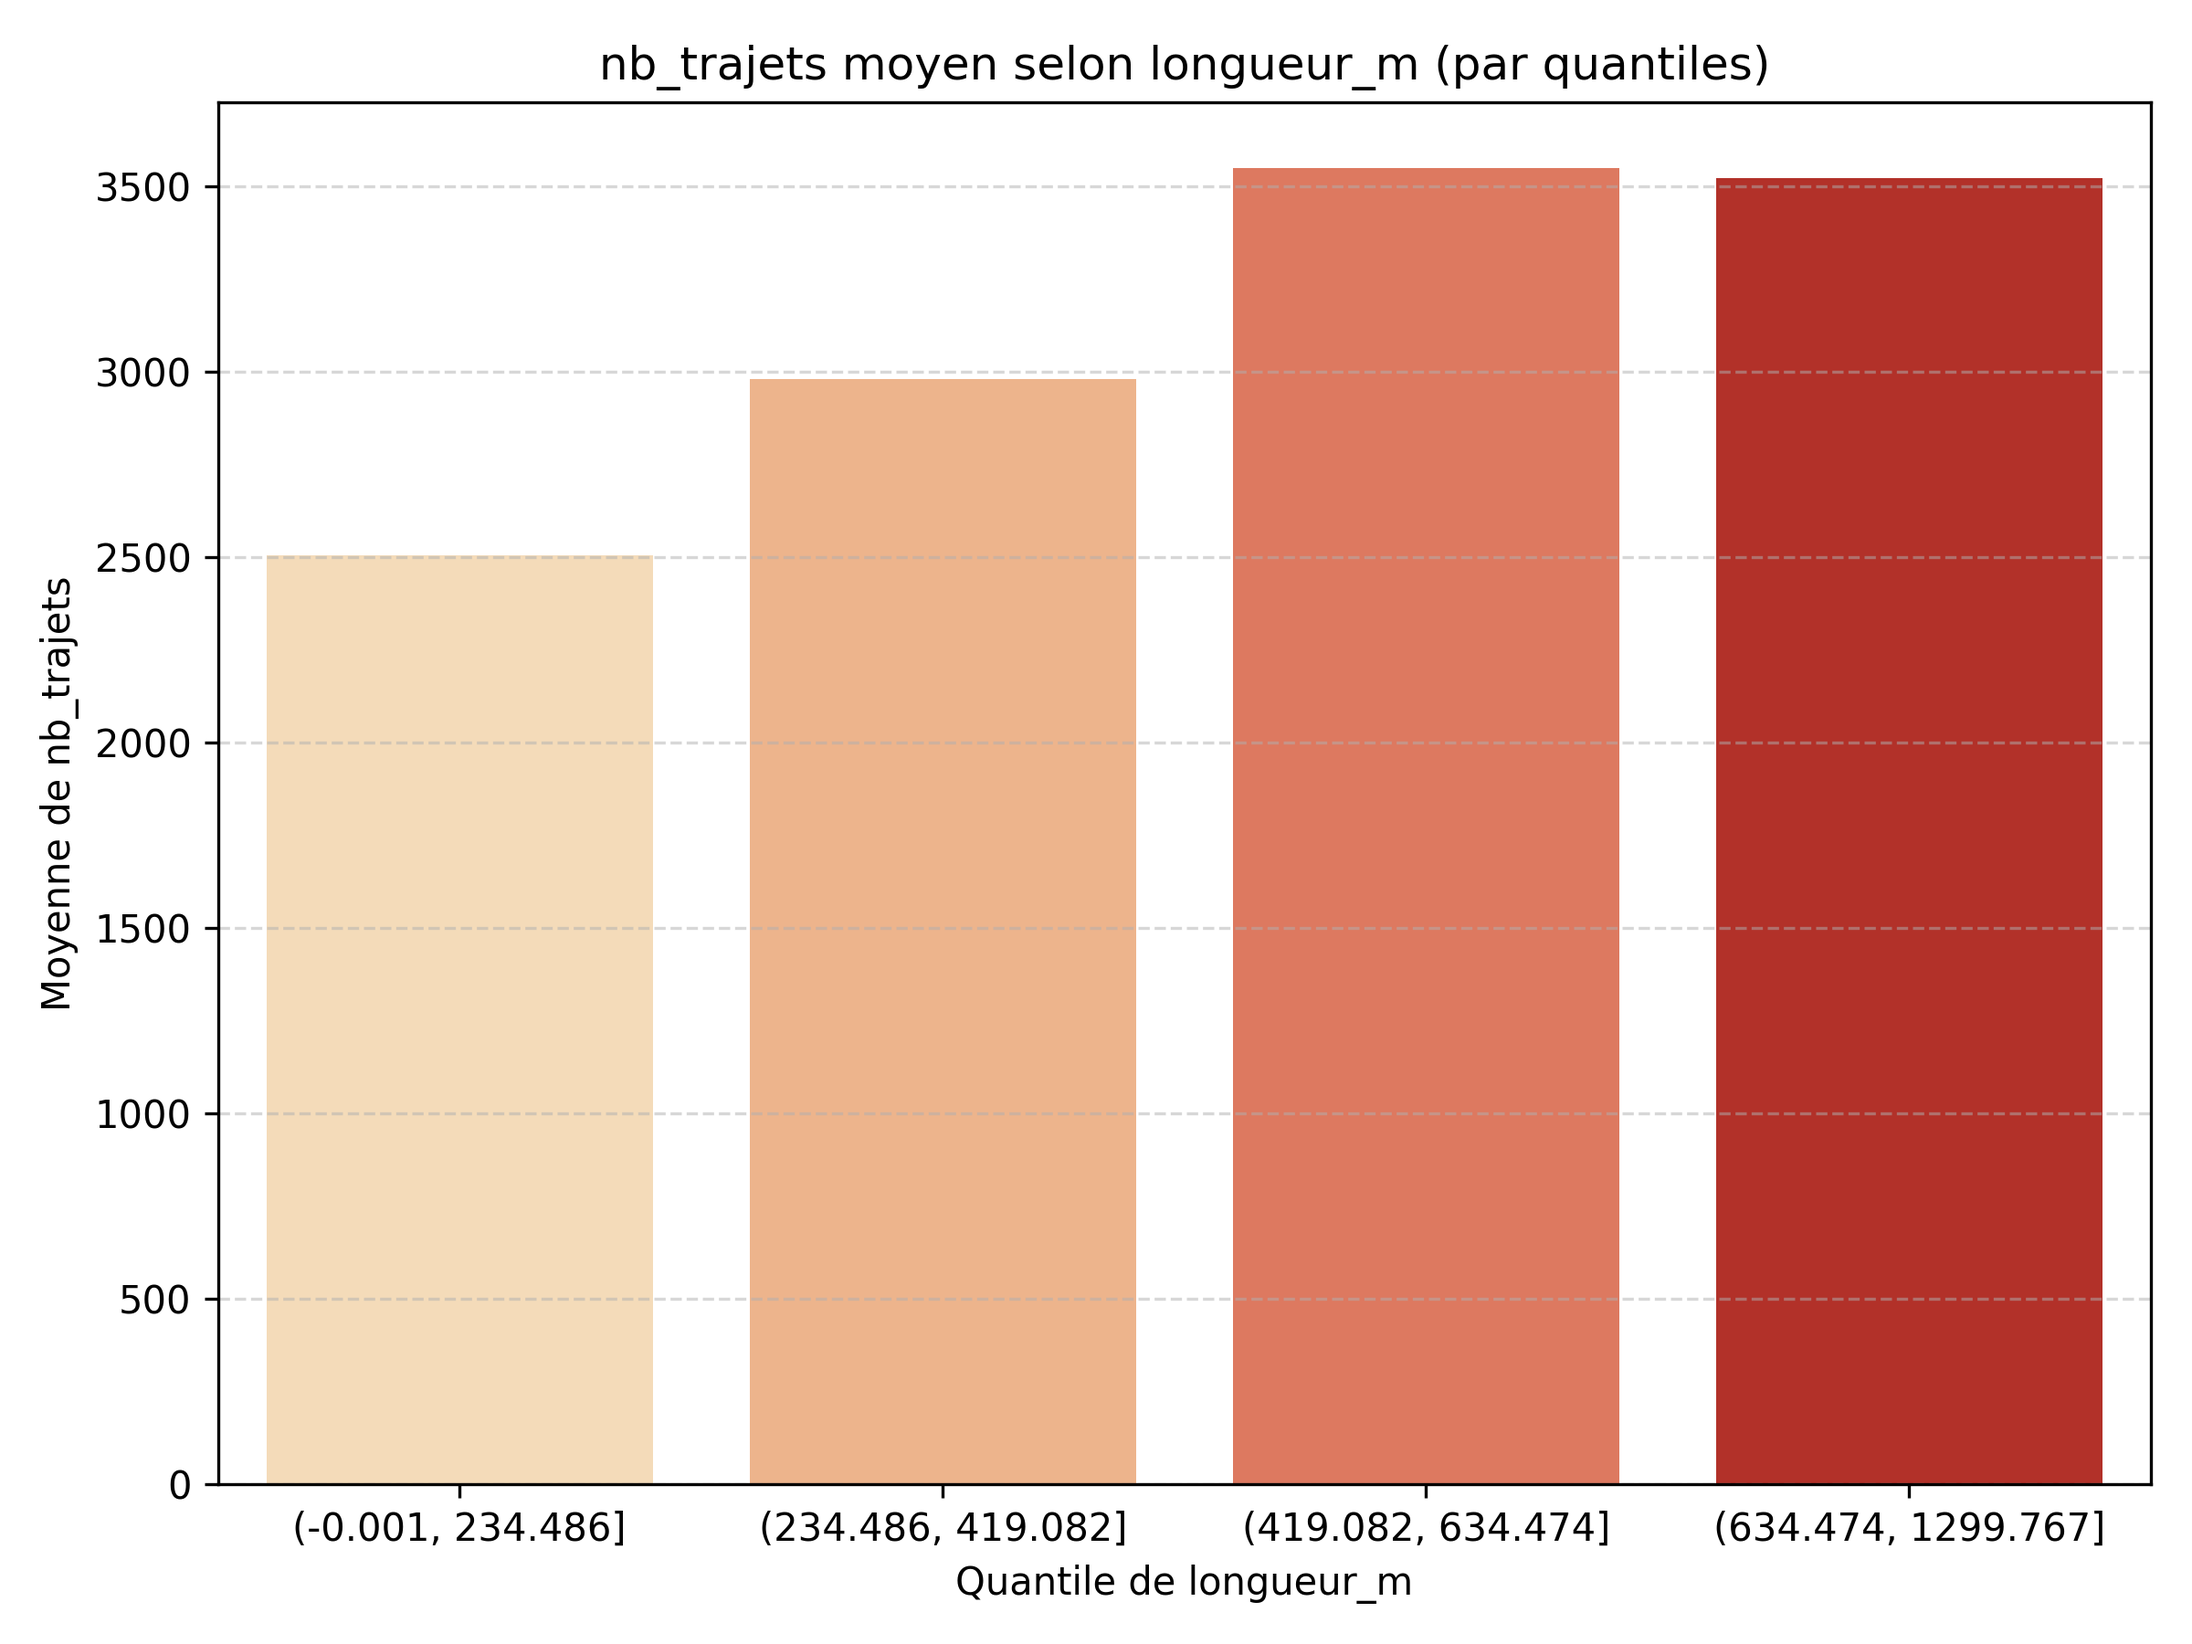
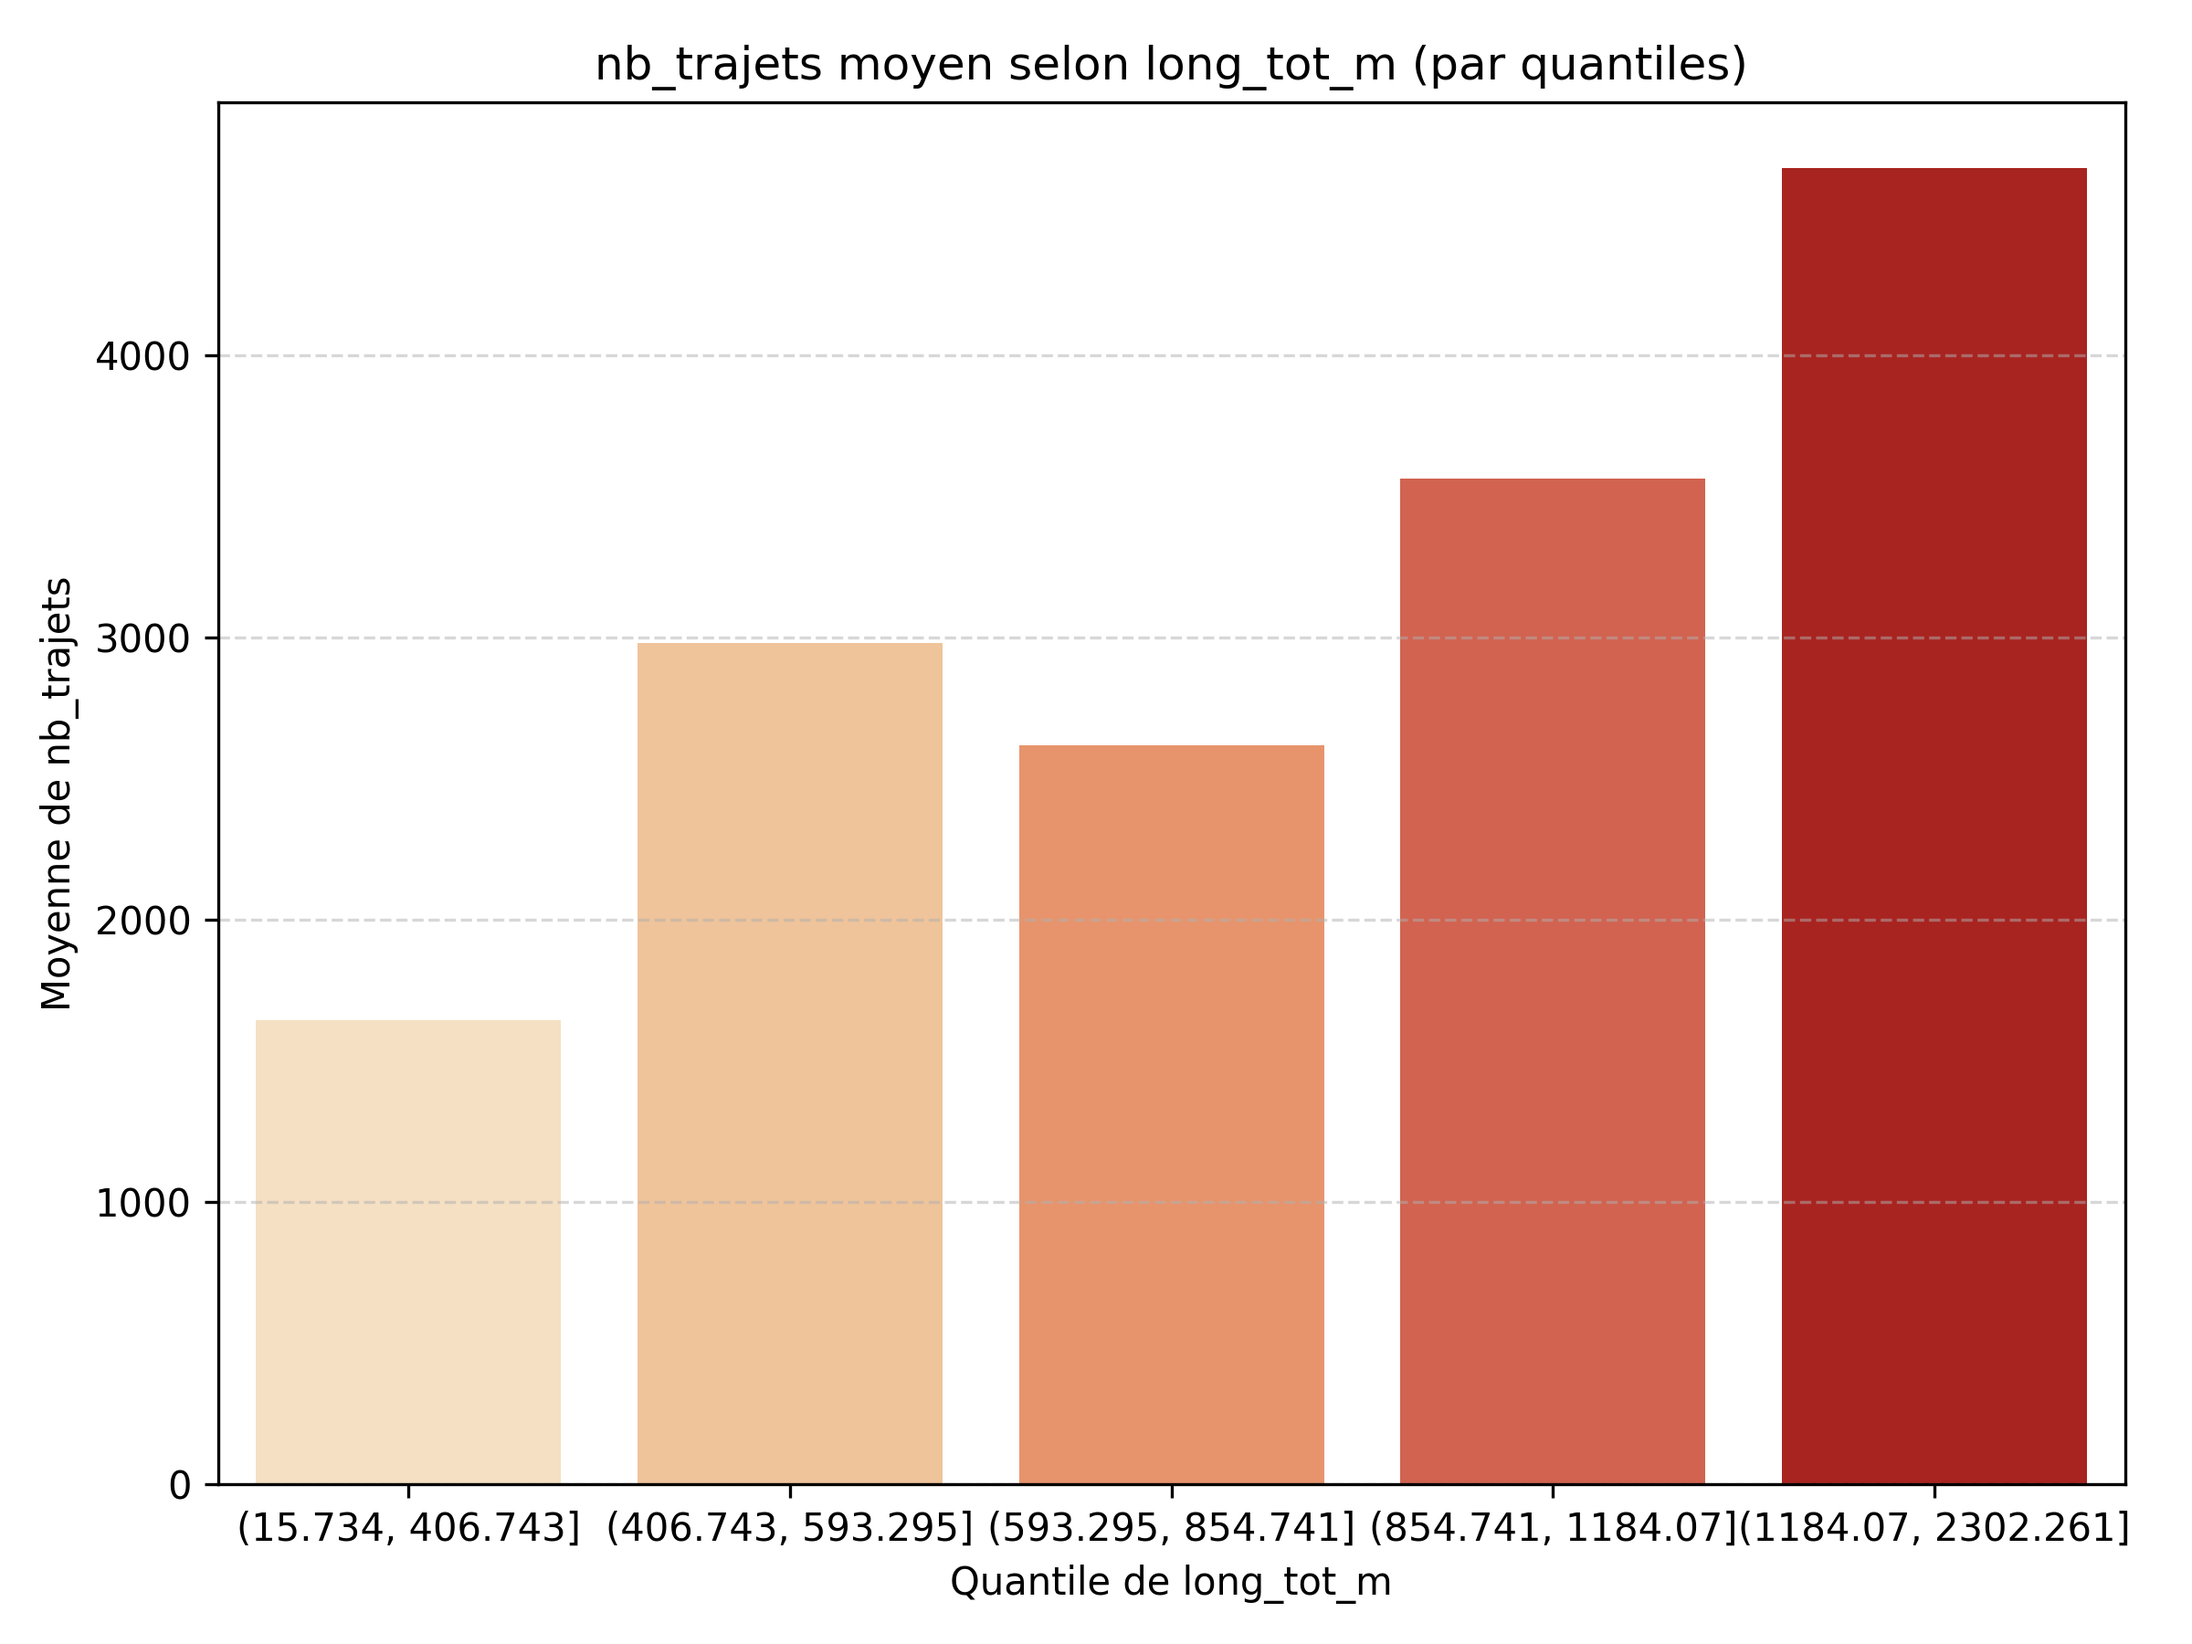
fix bikepath data

diff --git a/scripts/data/generate_bikepath_data.py b/scripts/data/generate_bikepath_data.py
@@ -1,28 +1,24 @@
 import geopandas as gpd
 
-def ajouter_longueur_pistes_protegees_par_hexagone(
+def ajouter_longueur_pistes_cyclables_par_hexagone(
     path_hexagones,
     path_reseau,
     output_path,
     epsg=32188  # MTM zone 8
 ):
     """
-    Calcule la longueur de pistes cyclables protégées par hexagone et exporte le fichier enrichi.
+       Calcule plusieurs métriques de longueur de pistes cyclables par hexagone.
 
-    Paramètres :
-    - path_hexagones : chemin vers le fichier des hexagones (shapefile ou geojson)
-    - path_reseau    : chemin vers le shapefile des pistes cyclables protégées
-    - output_path    : chemin du fichier de sortie (shp ou geojson selon extension)
-    - epsg           : code EPSG pour reprojection (par défaut : 32188)
-    """
+       Variables créées :
+       - longueur_totale_km
+       - longueur_totale_4saisons_km
+       - longueur_protegee_km
+       - longueur_protegee_4saisons_km
+       """
 
     # Charger les fichiers
-    hexagones = gpd.read_file(path_hexagones)
-    reseau = gpd.read_file(path_reseau)
-
-    # Reprojection
-    hexagones = hexagones.to_crs(epsg=epsg)
-    reseau = reseau.to_crs(epsg=epsg)
+    hexagones = gpd.read_file(path_hexagones).to_crs(epsg=epsg)
+    reseau = gpd.read_file(path_reseau).to_crs(epsg=epsg)
 
     # Index propre
     hexagones = hexagones.reset_index().rename(columns={"index": "hex_index"})
@@ -30,18 +26,39 @@ def ajouter_longueur_pistes_protegees_par_hexagone(
     # Intersection spatiale
     inter = gpd.overlay(reseau, hexagones, how="intersection")
 
-    # Longueur de segments
+    # Longueur de chaque segment
     inter["longueur_m"] = inter.geometry.length
 
+    # Colonnes conditionnelles selon tes champs
+    inter["longueur_4saisons_m"] = inter["longueur_m"].where(inter["SAISONS4"] == "Oui", 0)
+    inter["longueur_4saisons_protegee_m"] = inter["longueur_m"].where(inter["PROTEGE_4S"] == "Oui", 0)
+
     # Agrégation par hexagone
-    grouped = inter.groupby("hex_index")["longueur_m"].sum().reset_index()
-    grouped["longueur_km"] = grouped["longueur_m"] / 1000
+    grouped = inter.groupby("hex_index").agg(
+        longueur_totale_m=("longueur_m", "sum"),
+        longueur_totale_4saisons_m=("longueur_4saisons_m", "sum"),
+        longueur_protegee_4saisons_m=("longueur_4saisons_protegee_m", "sum")
+    ).reset_index()
+
+    # Conversion en km
+    for col in grouped.columns[1:]:
+        grouped[col.replace("_m", "_km")] = grouped[col] / 1000
 
     # Fusion avec hexagones
     hexagones = hexagones.merge(grouped, on="hex_index", how="left")
 
-    hexagones["longueur_m"] = hexagones["longueur_m"].fillna(0)
-    hexagones["longueur_km"] = hexagones["longueur_km"].fillna(0)
+    # Remplir les NaN par 0
+    for col in ["longueur_totale_km", "longueur_totale_4saisons_km", "longueur_protegee_4saisons_km"]:
+        hexagones[col] = hexagones[col].fillna(0)
+
+    hexagones = hexagones.rename(columns={
+        "longueur_totale_m": "long_tot_m",
+        "longueur_totale_4saisons_m": "tot_4s_m",
+        "longueur_protegee_4saisons_m": "prot_4s_m",
+        "longueur_totale_km": "long_tot_km",
+        "longueur_totale_4saisons_km": "tot_4s_km",
+        "longueur_protegee_4saisons_km": "prot_4s_km"
+    })
 
     # Export
     hexagones.to_file(output_path)

diff --git a/scripts/visuals/generate_visuals.py b/scripts/visuals/generate_visuals.py
@@ -192,7 +192,13 @@ def main():
     analyser_relation(hexagones, "bikescore_", "nb_trajets", f"{season}/bikescore_vs_trajets",
                       correlation_csv=f"output/{season}/correlations.csv")
 
-    analyser_relation(hexagones, "longueur_m", "nb_trajets", f"{season}/longueur_piste_cyclable_vs_trajets",
+    analyser_relation(hexagones, "long_tot_m", "nb_trajets", f"{season}/longueur_piste_cyclable_vs_trajets",
+                      correlation_csv=f"output/{season}/correlations.csv")
+
+    analyser_relation(hexagones, "tot_4s_m", "nb_trajets", f"{season}/longueur_piste_cyclable_4saisons_vs_trajets",
+                      correlation_csv=f"output/{season}/correlations.csv")
+
+    analyser_relation(hexagones, "prot_4s_m", "nb_trajets", f"{season}/longueur_piste_cyclable_4saisons_protege_vs_trajets",
                       correlation_csv=f"output/{season}/correlations.csv")
 
     analyser_relation(hexagones, "densite_es", "nb_trajets", f"{season}/densite_population_vs_trajets",
@@ -211,7 +217,7 @@ def main():
 
     colonnes_facteurs = [
         "aire_parc", "nombre_uni", "walkscore_", "transitsco",
-        "bikescore_", "longueur_m", "densite_es", "distance_c", "densite_lo", "nb_cegep"
+        "bikescore_", "long_tot_m", "tot_4s_m", "prot_4s_m", "densite_es", "distance_c", "densite_lo", "nb_cegep"
     ]
 
     generer_matrice_correlation(hexagones, colonnes_facteurs,

diff --git a/scripts/data/data_pipeline.py b/scripts/data/data_pipeline.py
@@ -3,7 +3,7 @@ from generate_stations_db import generate_stations_db
 from walkscore_processing import generate_walkscores, agg_walkscore_par_hexagone
 from hex_pop_density_processing import calculer_pop_densite_par_hexagone
 from compter_trajets_par_hex import compter_trajets_par_hexagone
-from generate_bikepath_data import ajouter_longueur_pistes_protegees_par_hexagone
+from generate_bikepath_data import ajouter_longueur_pistes_cyclables_par_hexagone
 from generate_park_density_data import ajouter_surface_parcs_par_hexagone
 from add_university_data import ajouter_nombre_universites_par_hexagone
 from compute_distance_to_downtown import compute_distance_to_downtown
@@ -69,7 +69,7 @@ def main():
         )
 
     if steps["bikepath_length"]:
-        ajouter_longueur_pistes_protegees_par_hexagone(
+        ajouter_longueur_pistes_cyclables_par_hexagone(
             path_hexagones=paths["hex_popdens"],
             path_reseau=paths["reseau_cyclable"],
             output_path=paths["hex_bikepath"]
